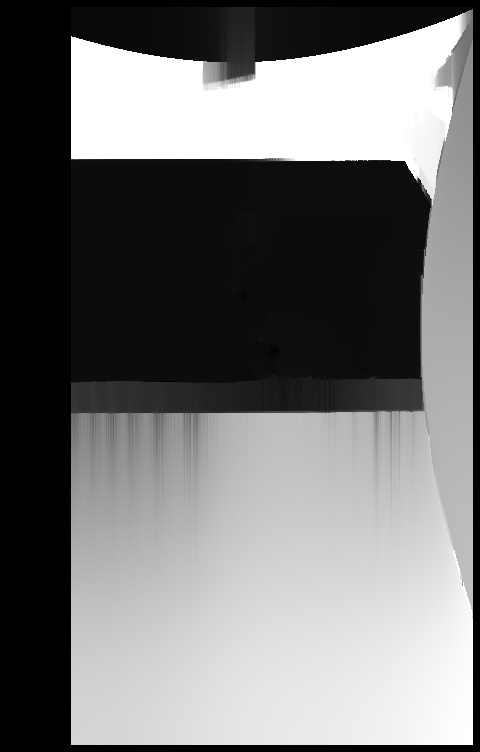
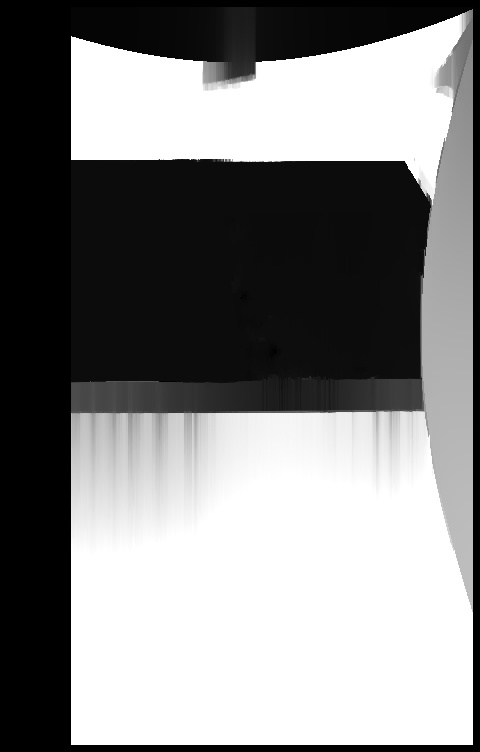
starting to tune params

diff --git a/indigosdk-2.0.15/src/omnis5u3mt9v022.cc b/indigosdk-2.0.15/src/omnis5u3mt9v022.cc
@@ -462,6 +462,11 @@ static DeferredImage computeDisparityImage2(std::shared_ptr<void> stereo_handle,
         }
 
         Mat left_for_matcher, right_for_matcher;
+         // left_for_matcher  = left.clone();
+        // right_for_matcher = right.clone();
+        left_for_matcher = imread("img/mono/left_for_matcher"+std::to_string(index)+".jpg", IMREAD_UNCHANGED);
+        right_for_matcher = imread("img/mono/right_for_matcher"+std::to_string(index)+".jpg", IMREAD_UNCHANGED);
+
         Mat left_disp,right_disp;
         Mat filtered_disp;
         Mat conf_map = Mat(left_for_matcher.rows,left_for_matcher.cols,CV_8U);
@@ -469,27 +474,18 @@ static DeferredImage computeDisparityImage2(std::shared_ptr<void> stereo_handle,
         Ptr<DisparityWLSFilter> wls_filter;
         double matching_time, filtering_time;
 
-        left_for_matcher  = left.clone();
-        right_for_matcher = right.clone();
-        // left_for_matcher = imread("matcher_img/left_for_matcher2.jpg", IMREAD_UNCHANGED);
-        // right_for_matcher = imread("matcher_img/right_for_matcher2.jpg", IMREAD_UNCHANGED);
-
-        auto max_disp = 64;
-        auto wsize = 15;
-        printf("wsize: %d\n", wsize);
-        
         // StereoBM
-        Ptr<StereoBM> left_matcher = StereoBM::create(max_disp,wsize);
+        Ptr<StereoBM> left_matcher = StereoBM::create(bm_num_disparities,bm_sad_window_size);
         Ptr<StereoMatcher> right_matcher = createRightMatcher(left_matcher);
 
         // StereoSGBM
-        // Ptr<StereoSGBM> left_matcher = StereoSGBM::create(0,max_disp,wsize);
+        // Ptr<StereoSGBM> left_matcher = StereoSGBM::create(0,bm_num_disparities,bm_sad_window_size);
         // left_matcher->setUniquenessRatio(60);
         // // left_matcher->setTextureThreshold(10);
         // // left_matcher->setDisp12MaxDiff(1000000);
         // // left_matcher->setSpeckleWindowSize(400);
-        // left_matcher->setP1(24*wsize*wsize);
-        // left_matcher->setP2(96*wsize*wsize);
+        // left_matcher->setP1(24*bm_sad_window_size*bm_sad_window_size);
+        // left_matcher->setP2(96*bm_sad_window_size*bm_sad_window_size);
         // left_matcher->setPreFilterCap(63);
         // left_matcher->setMode(StereoSGBM::MODE_SGBM_3WAY);
         // wls_filter = createDisparityWLSFilter(left_matcher);
